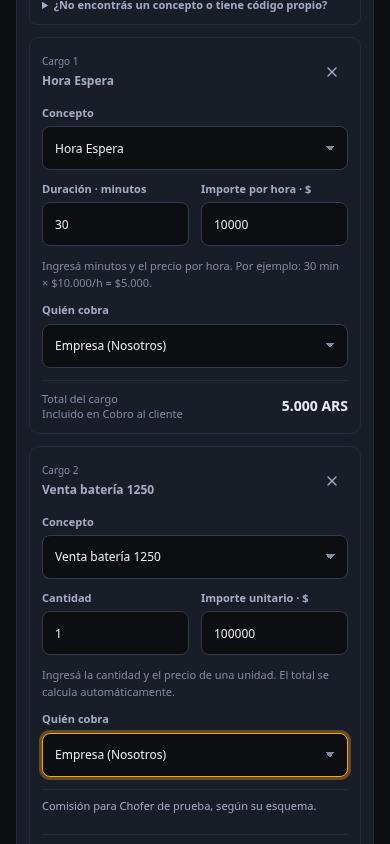
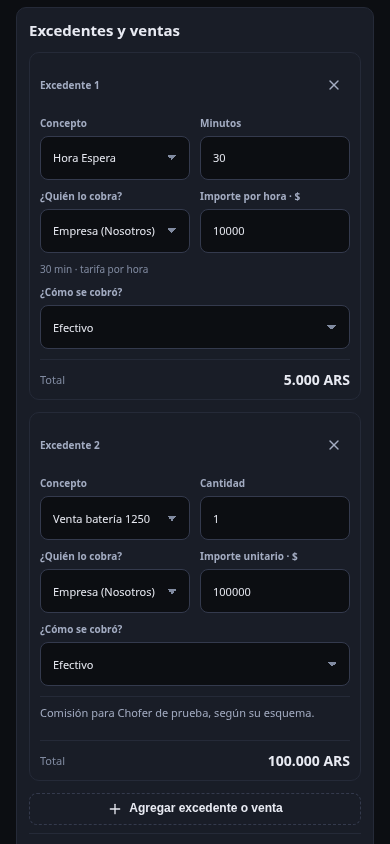
Compact excess form and expose customer payment method inline

diff --git a/operator-service-commercial-addons-v1.js b/operator-service-commercial-addons-v1.js
@@ -59,14 +59,18 @@ function renderTollRow(row,index,mode){const {rate}=rateFor(row.toll_id),qty=Mat
  ${disabled?'':`<button type="button" class="osca-remove" data-ca="remove-toll" data-index="${index}" aria-label="Quitar peaje">${ico('x')}</button>`}
  </div>`;}
 function commissionNote(conceptId){const w=W(),rules=(w?.context?.commission_assignments||[]).filter(x=>String(x.concept_id)===String(conceptId));if(!rules.length)return'';const driverId=w.data?.assigned_driver_id||w.serviceSnapshot?.responsible_driver_id||w.serviceSnapshot?.activation_driver_id||w.intakeContext?.service?.assigned_driver_id,driver=O()?.driver?.(driverId),name=driver?.full_name||w.serviceSnapshot?.driver_name||'Chofer del servicio';return `<small class="osca-commission-note">${!driverId?'Comisión: se atribuye al chofer responsable al finalizar.':rules.some(x=>String(x.driver_id)===String(driverId))?'Comisión para '+esc(name)+', según su esquema.':'El chofer responsable no tiene una comisión asignada para este concepto.'}</small>`;}
-function renderExcessRow(row,index){const meta=O()?.excessConcepts?.().find(x=>String(x.concept_id)===String(row.concept_id)),hourly=window.AuxiliosServiceImprovements?.isHourly({...meta,...row}),unit=meta?.pricing_unit||row.pricing_unit,disabled=readOnly(),errors=state.missing?O()?.excessRowErrors?.(row)||{}:{},field=(key,label,control)=>`<label class="osca-excess-field${errors[key]?' is-missing':''}"><span>${label}</span>${control}${errors[key]?`<small class="osca-field-error" role="alert">${esc(errors[key])}</small>`:''}</label>`,attrs=key=>`data-ca-excess-field="${key}" data-index="${index}" ${disabled?'disabled':''} ${errors[key]?'aria-invalid="true"':''}`,qtyLabel=hourly?'Duración · minutos':unit==='km'?'Kilómetros':unit==='day'?'Días':'Cantidad';
- return `<article class="osca-excess-card" data-excess-index="${index}"><header><div><small>Cargo ${index+1}</small><b>${esc(row.concept_name||meta?.name||'Nuevo excedente o venta')}</b></div>${disabled?'':`<button type="button" class="osca-remove" data-ca="remove-excess" data-index="${index}" aria-label="Quitar excedente ${index+1}">${ico('x')}</button>`}</header>
+function renderExcessRow(row,index){const meta=O()?.excessConcepts?.().find(x=>String(x.concept_id)===String(row.concept_id)),hourly=window.AuxiliosServiceImprovements?.isHourly({...meta,...row}),unit=meta?.pricing_unit||row.pricing_unit,disabled=readOnly(),errors=state.missing?O()?.excessRowErrors?.(row)||{}:{},field=(key,label,control)=>`<label class="osca-excess-field${errors[key]?' is-missing':''}"><span>${label}</span>${control}${errors[key]?`<small class="osca-field-error" role="alert">${esc(errors[key])}</small>`:''}</label>`,attrs=key=>`data-ca-excess-field="${key}" data-index="${index}" ${disabled?'disabled':''} ${errors[key]?'aria-invalid="true"':''}`,qtyLabel=hourly?'Minutos':unit==='km'?'Kilómetros':unit==='day'?'Días':'Cantidad',cp=commercial().customer_payment||{},methods=[...PAYMENTS,...(W()?.administrativeEdit?[['not_collected','No cobrado']]:[['to_define','A definir']])];
+ return `<article class="osca-excess-card" data-excess-index="${index}"><header><b>Excedente ${index+1}</b>${disabled?'':`<button type="button" class="osca-remove" data-ca="remove-excess" data-index="${index}" aria-label="Quitar excedente ${index+1}">${ico('x')}</button>`}</header>
+ <div class="osca-excess-grid">
  ${field('concept_id','Concepto',`<select ${attrs('concept_id')}>${conceptOptions(row.concept_id,row.concept_name)}</select>`)}
+ ${field('quantity',qtyLabel,`<input type="number" min="${hourly?.6:.01}" step="${hourly?.6:.01}" inputmode="decimal" value="${row.quantity===''?'':hourly?window.AuxiliosServiceImprovements.hoursToMinutes(row.quantity):esc(row.quantity)}" data-minutes="${!!hourly}" ${attrs('quantity')}>`)}
+ ${field('collector_agent','¿Quién lo cobra?',`<select ${attrs('collector_agent')}>${optionRows(COLLECTORS,row.collector_agent,'Seleccionar…')}</select>`)}
+ ${field('unit_amount',hourly?'Importe por hora · $':unit==='km'?'Importe por km · $':unit==='day'?'Importe por día · $':'Importe unitario · $',`<input type="number" min="0.01" step="0.01" inputmode="decimal" placeholder="0,00" value="${row.unit_amount===''?'':esc(row.unit_amount)}" ${attrs('unit_amount')}>`)}
+ </div>
  ${isExcessOther(row.concept_id)?field('concept_name','Descripción',`<input type="text" maxlength="80" placeholder="¿Qué se cobró?" value="${esc(row.concept_name||'')}" ${attrs('concept_name')}>`):''}
- <div class="osca-excess-numbers">${field('quantity',qtyLabel,`<input type="number" min="${hourly?.6:.01}" step="${hourly?.6:.01}" inputmode="decimal" value="${row.quantity===''?'':hourly?window.AuxiliosServiceImprovements.hoursToMinutes(row.quantity):esc(row.quantity)}" data-minutes="${!!hourly}" ${attrs('quantity')}>`)}${field('unit_amount',hourly?'Importe por hora · $':unit==='km'?'Importe por km · $':unit==='day'?'Importe por día · $':'Importe unitario · $',`<input type="number" min="0.01" step="0.01" inputmode="decimal" placeholder="0,00" value="${row.unit_amount===''?'':esc(row.unit_amount)}" ${attrs('unit_amount')}>`)}</div>
- <small class="osca-excess-help">${hourly?'Ingresá minutos y el precio por hora. Por ejemplo: 30 min × $10.000/h = $5.000.':unit==='km'?'Ingresá los kilómetros excedentes y el precio de cada kilómetro.':'Ingresá la cantidad y el precio de una unidad. El total se calcula automáticamente.'}</small>
- ${field('collector_agent','Quién cobra',`<select ${attrs('collector_agent')}>${optionRows(COLLECTORS,row.collector_agent,'Elegí quién cobra')}</select>`)}
- ${commissionNote(row.concept_id)}<footer><small>Total del cargo<br>${row.collector_agent==='company'?'Incluido en Cobro al cliente':row.collector_agent==='provider'?'Lo cobra la Prestadora':''}</small><b data-excess-total="${index}">${money(num(row.quantity)*num(row.unit_amount),row.currency)}</b></footer>
+ ${hourly?`<small class="osca-excess-help" data-excess-duration="${index}">${window.AuxiliosServiceImprovements.duration(row.quantity)} · tarifa por hora</small>`:''}
+ ${row.collector_agent==='company'?`<label class="osca-excess-field"><span>¿Cómo se cobró?</span><select data-ca-excess-payment="${index}" ${disabled?'disabled':''}>${optionRows(methods,cp.primary,'Seleccionar medio…')}</select>${cp.secondary?`<small class="osca-excess-help">${esc(paymentName(cp.primary))} + ${esc(paymentName(cp.secondary))}</small>`:''}</label>`:row.collector_agent==='provider'?'<small class="osca-excess-help">Cobro a cargo de la prestadora.</small>':''}
+ ${commissionNote(row.concept_id)}<footer><small>Total</small><b data-excess-total="${index}">${money(num(row.quantity)*num(row.unit_amount),row.currency)}</b></footer>
  </article>`;}
 function actualTolls(){const rows=W()?.data?.actual_tolls||[];if(!rows.length)return'';return`<div class="osca-actual"><b>Peajes reales informados</b>${rows.map(row=>`<span>${esc(row.toll_name||'Peaje')} · ${Math.max(1,num(row.quantity)||1)} × ${money(row.unit_amount,row.currency||'ARS')}</span>`).join('')}</div>`;}
 function coverageList(c,disabled){return`<div class="osca-format-list" role="radiogroup" aria-label="Formato de cobro">${COVERAGE.map(([value,label])=>`<button type="button" role="radio" aria-checked="${String(c.toll_coverage_mode)===value}" data-ca="coverage" data-value="${value}" class="${String(c.toll_coverage_mode)===value?'active':''}" ${disabled?'disabled':''}><span class="osca-radio"></span><b>${esc(label)}</b></button>`).join('')}</div>`;}
@@ -76,7 +80,8 @@ function tollMatrix(c){const mode=c.toll_coverage_mode,disabled=readOnly();if(!m
  <div class="osca-matrix-body">${c.tolls.length?c.tolls.map((row,index)=>renderTollRow(row,index,mode)).join(''):'<div class="osca-empty-row">Sin peajes cargados.</div>'}</div>
  ${disabled?'':`<div class="osca-add-actions"><button type="button" class="osca-add-row" data-ca="new-toll">${ico('plus')}Agregar peaje</button><button type="button" class="osca-add-row" data-ca="detect-tolls">${ico('route')}Detectar peajes del recorrido</button>${c.tolls.length?`<button type="button" class="osca-add-row" data-ca="duplicate-tolls">${ico('copy')}Duplicar para la vuelta</button>`:''}</div>${window.AuxiliosTollDetection?.panelHtml?.()||''}`}
  </div>`;}
-function excessMatrix(c){const disabled=readOnly();return`<div class="osca-excess-editor"><div class="osca-title"><b>Excedentes y ventas</b><small>Cargá un cobro manual: concepto, cantidad, precio y quién lo cobra.</small></div><div class="osca-excess-help"><details class="osca-catalog-help"><summary>¿No encontrás un concepto o tiene código propio?</summary><p>Las ventas se habilitan en Configuración → Prestadoras → Servicios habilitados. Si falta en el catálogo, crealo en Configuración → Tipos de servicio.</p><p>Una prestación con tarifa y código independiente se agrega en Prestaciones adicionales: allí se carga su número completo.</p></details></div><div class="osca-excess-list">${c.excess_charges.length?c.excess_charges.map(renderExcessRow).join(''):'<div class="osca-excess-empty"><b>Sin excedentes</b><span>Agregá los cargos o ventas que correspondan al servicio.</span></div>'}</div>${disabled?'':`<button type="button" class="osca-add-row" data-ca="new-excess">${ico('plus')}Agregar excedente o venta</button>`}</div>`;}
+function excessMatrix(c){const disabled=readOnly();return`<div class="osca-excess-editor"><div class="osca-title"><b>Excedentes y ventas</b></div><div class="osca-excess-list">${c.excess_charges.length?c.excess_charges.map(renderExcessRow).join(''):'<div class="osca-excess-empty"><b>Sin excedentes</b></div>'}</div>${disabled?'':`<button type="button" class="osca-add-row" data-ca="new-excess">${ico('plus')}Agregar excedente o venta</button>`}</div>`;}
+
 
 function activationCard(){
  const w=W(),s=w?.serviceSnapshot||{},active=!!(s.driver_activated||w?.intakeActivated);if(!active)return '';
@@ -98,7 +103,7 @@ function addDetectedTollsAdmin(items){const c=commercial(),payer=fixedPayer(c.to
 /* Los campos de las filas ya no llevan el rótulo a la vista (ahorra espacio): cada uno lo conserva para lectores de pantalla y al pasar el mouse. */
 function labelFields(){document.querySelectorAll('.osv4-reactive .osca-matrix-row > [data-label]').forEach(box=>{const name=box.dataset.label,control=box.querySelector('select,input');if(control&&!control.getAttribute('aria-label')){control.setAttribute('aria-label',name);if(!control.title)control.title=name;}});}
 function customerPaymentProps(){const o=O(),c=commercial(),tolls=o?.commercialCustomerTollTotal?.()||0,excess=o?.commercialCompanyExcessTotal?.()||0;return{total:o?.customerPaymentTotal?.()||0,breakdown:[{label:'Peajes del cliente',amount:tolls},{label:'Excedentes que cobra la Empresa',amount:excess}],value:c.customer_payment||{},allowToDefine:!W()?.administrativeEdit,allowNotCollected:!!W()?.administrativeEdit,disabled:readOnly(),showErrors:!!state.missing,hint:'Un solo cobro para todo lo que paga el cliente. Si pagó con dos medios, cargá cuánto fue con el segundo.',onChange:next=>{o?.setCustomerPayment?.(next);paintCustomerPayment();}};}
-function paintCustomerPayment(){const slot=document.getElementById('osca-customer-payment');if(slot&&window.AuxiliosCustomerPayment)window.AuxiliosCustomerPayment.render(slot,customerPaymentProps());}
+function paintCustomerPayment(){document.querySelectorAll('[data-ca-excess-payment]').forEach(select=>{select.value=commercial().customer_payment?.primary||'';select.dispatchEvent(new Event('change',{bubbles:false}));});const slot=document.getElementById('osca-customer-payment');if(slot&&window.AuxiliosCustomerPayment)window.AuxiliosCustomerPayment.render(slot,customerPaymentProps());}
 /* Corrección administrativa (remito firmado): misma pantalla que Nuevo servicio y, abajo, los cargos del remito para comparar. */
 function administrativeReport(){const w=W();if(!w?.administrativeEdit||w.intakeActivated)return'';return`<details class="osaa-original" ${(state.reportOpen??reportOpenByDefault(w))?'open':''}><summary>Cargos del remito firmado</summary>${(()=>{const review=window.AuxiliosRemitoReviewV2?.reviewReport?.();return review?review+reportedPayment(w.reportedAddons):reportedCharges(w.reportedAddons);})()}</details>`;}
 function render(){const w=W();if(w&&!state.autoOpened&&w.mode==='create'&&!w.administrativeEdit&&!(w.intakeId&&!w.intakeActivated)){state.autoOpened=true;if(state.open==null)state.open='tolls';}renderInner();labelFields();/* Listas con el aspecto del sistema (como el resto de los formularios). */document.querySelectorAll('.osv4-reactive .osca-panel select:not([data-ax-enhanced])').forEach(x=>window.AxUI?.select?.(x));}
@@ -106,8 +111,8 @@ function renderInner(){const w=W(),column=document.querySelector('.osv4-reactive
  ${state.open==='tolls'?`<section class="osca-panel tolls">${coverageControl(c,disabled)}${tollMatrix(c)}${actualTolls()}${c.tolls.length?`<div class="osca-summary"><span>A cargo de la Prestadora</span><b>${money(provider)}</b><span>A cargo del cliente</span><b>${money(customer)}</b></div>`:''}</section>`:''}
  ${state.open==='excess'?`<section class="osca-panel excess">${excessMatrix(c)}${c.excess_charges.length?`<div class="osca-summary single"><span>Total excedentes</span><b data-excess-summary>${money(excess)}</b></div>`:''}</section>`:''}<div id="osca-customer-payment-anchor"></div>${administrativeReport()}`;const anchor=column.querySelector('#osca-customer-payment-anchor'),slot=cpSlot||Object.assign(document.createElement('div'),{id:'osca-customer-payment',className:'osca-customer-payment'});const showCp=(O()?.customerPaymentTotal?.()||0)>0;slot.hidden=!showCp;anchor.replaceWith(slot);restoreReview();if(showCp)paintCustomerPayment();}
 function onClick(event){const button=event.target.closest?.('[data-ca]');if(!button)return;const action=button.dataset.ca;if(action==='finalize-activated')return window.OperatorServiceLifecycleV2?.openActivatedFinalize?.(W()?.serviceId);if(action==='open-remito')return window.abrirRemitoFirmadoOperador?.(W()?.serviceId);if(action==='toggle-tolls'){state.open=state.open==='tolls'?null:'tolls';state.coverageEditing=false;return render();}if(action==='toggle-history'){state.open=state.open==='history'?null:'history';return render();}if(action==='toggle-excess'){state.open=state.open==='excess'?null:'excess';return render();}if(action==='change-coverage'&&!readOnly()){state.coverageEditing=true;return render();}if(readOnly())return;if(action==='coverage'){state.coverageEditing=false;return O()?.setCommercialCoverage?.(button.dataset.value||'');}if(action==='new-toll')return O()?.addCommercialToll?.();if(action==='detect-tolls'){Promise.resolve(window.AuxiliosTollDetection?.detect?.()).finally(()=>render());return;}if(action==='new-excess'){const rows=commercial().excess_charges,empty=rows.findIndex(r=>!r.concept_id);if(empty<0)O()?.addCommercialExcess?.();const index=empty<0?commercial().excess_charges.length-1:empty;const input=document.querySelector(`[data-excess-index="${index}"] [data-ca-excess-field="concept_id"]`);(input?.nextElementSibling?.querySelector('.ax-select-btn')||input)?.focus();return;}if(action==='remove-toll')return O()?.removeCommercialToll?.(Number(button.dataset.index));if(action==='duplicate-tolls')return O()?.duplicateCommercialTolls?.();if(action==='remove-excess')return O()?.removeCommercialExcess?.(Number(button.dataset.index));if(action==='toll-payer')return O()?.updateCommercialToll?.(Number(button.dataset.index),'payer_agent',button.dataset.value,true);if(action==='toll-qty'){const i=Number(button.dataset.index),r=commercial().tolls[i];if(!r)return;return O()?.updateCommercialToll?.(i,'quantity',Math.max(1,Math.round(num(r.quantity)||1)+Number(button.dataset.delta||0)),true);}}
-function onInput(event){if(readOnly())return;const target=event.target;if(target.dataset.caField==='unit_amount')O()?.updateCommercialToll?.(Number(target.dataset.index),'unit_amount',target.value,false);if(target.dataset.caField==='quantity')O()?.updateCommercialToll?.(Number(target.dataset.index),target.dataset.caField,target.value,false);if(['quantity','unit_amount','concept_name'].includes(target.dataset.caExcessField))O()?.updateCommercialExcess?.(Number(target.dataset.index),target.dataset.caExcessField,target.value===''?'':target.dataset.minutes==='true'?window.AuxiliosServiceImprovements.minutesToHours(target.value):target.value,false);if(target.dataset.caExcessField){const key=target.dataset.caExcessField,field=target.closest('.osca-excess-field'),errors=O()?.excessRowErrors?.(commercial().excess_charges[Number(target.dataset.index)])||{};if(!errors[key]){target.removeAttribute('aria-invalid');field?.classList.remove('is-missing');field?.querySelector('.osca-field-error')?.remove();}const summary=document.querySelector('[data-excess-summary]');if(summary)summary.textContent=money(O()?.commercialCustomerExcessTotal?.()||0);const i=Number(target.dataset.index),row=commercial().excess_charges[i],total=document.querySelector(`[data-excess-total="${i}"]`);if(total&&row)total.textContent=money(num(row.quantity)*num(row.unit_amount),row.currency);paintCustomerPayment();}}
-function onChange(event){if(readOnly())return;const target=event.target;if(target.dataset.caField!==undefined)return O()?.updateCommercialToll?.(Number(target.dataset.index),target.dataset.caField,target.value,true);if(target.dataset.caExcessField!==undefined)return O()?.updateCommercialExcess?.(Number(target.dataset.index),target.dataset.caExcessField,target.value===''?'':target.dataset.minutes==='true'?window.AuxiliosServiceImprovements.minutesToHours(target.value):target.value,!['quantity','unit_amount','concept_name'].includes(target.dataset.caExcessField));}
+function onInput(event){if(readOnly())return;const target=event.target;if(target.dataset.caField==='unit_amount')O()?.updateCommercialToll?.(Number(target.dataset.index),'unit_amount',target.value,false);if(target.dataset.caField==='quantity')O()?.updateCommercialToll?.(Number(target.dataset.index),target.dataset.caField,target.value,false);if(['quantity','unit_amount','concept_name'].includes(target.dataset.caExcessField))O()?.updateCommercialExcess?.(Number(target.dataset.index),target.dataset.caExcessField,target.value===''?'':target.dataset.minutes==='true'?window.AuxiliosServiceImprovements.minutesToHours(target.value):target.value,false);if(target.dataset.caExcessField){const key=target.dataset.caExcessField,field=target.closest('.osca-excess-field'),errors=O()?.excessRowErrors?.(commercial().excess_charges[Number(target.dataset.index)])||{};if(!errors[key]){target.removeAttribute('aria-invalid');field?.classList.remove('is-missing');field?.querySelector('.osca-field-error')?.remove();}const summary=document.querySelector('[data-excess-summary]');if(summary)summary.textContent=money(O()?.commercialCustomerExcessTotal?.()||0);const i=Number(target.dataset.index),row=commercial().excess_charges[i],total=document.querySelector(`[data-excess-total="${i}"]`);if(total&&row)total.textContent=money(num(row.quantity)*num(row.unit_amount),row.currency);const duration=document.querySelector(`[data-excess-duration="${i}"]`);if(duration&&row)duration.textContent=window.AuxiliosServiceImprovements.duration(row.quantity)+' · tarifa por hora';paintCustomerPayment();}}
+function onChange(event){if(readOnly())return;const target=event.target;if(target.dataset.caExcessPayment!==undefined){const cp=commercial().customer_payment||{},primary=target.value,reset=primary===cp.secondary||['to_define','not_collected'].includes(primary);O()?.setCustomerPayment?.({primary,...(reset?{secondary:'',secondary_amount:''}:{})});render();return;}if(target.dataset.caField!==undefined)return O()?.updateCommercialToll?.(Number(target.dataset.index),target.dataset.caField,target.value,true);if(target.dataset.caExcessField!==undefined)return O()?.updateCommercialExcess?.(Number(target.dataset.index),target.dataset.caExcessField,target.value===''?'':target.dataset.minutes==='true'?window.AuxiliosServiceImprovements.minutesToHours(target.value):target.value,!['quantity','unit_amount','concept_name'].includes(target.dataset.caExcessField));}
 function bind(){if(state.bound)return;state.bound=true;document.addEventListener('click',onClick);document.addEventListener('input',onInput);document.addEventListener('change',onChange);}
 /* Abierto mientras se revisa; retraído cuando el servicio ya está cerrado o
    se abre solo para consultar. Si el usuario lo abre o cierra, se respeta. */

diff --git a/operator-service-commercial-addons-v1.css b/operator-service-commercial-addons-v1.css
@@ -203,6 +203,12 @@
 .osca-commission-note{display:block;font-size:11px!important;line-height:1.5;color:var(--ax-text-2,var(--osv2-muted2));padding:8px 0;border-top:1px solid var(--ax-border,var(--osv2-border))}
 .osca-excess-card>header>div{display:grid;gap:4px;min-width:0;overflow-wrap:anywhere}
 .osca-excess-card>header small{font-size:10px;color:var(--ax-text-3,var(--osv2-muted2))}
-.osca-catalog-help{padding:10px 12px;border:1px solid var(--ax-border,var(--osv2-border));border-radius:8px;font-size:11px;line-height:1.5;overflow-wrap:anywhere}
-.osca-catalog-help summary{cursor:pointer;font-weight:600;color:var(--ax-text-2,var(--osv2-text))}
-.osca-catalog-help p{margin:8px 0 0}
+
+
+.osca-excess-grid{display:grid;grid-template-columns:minmax(0,1fr) minmax(0,1fr);gap:10px}
+.osca-excess-card{gap:10px;padding:10px}
+.osca-excess-card .osca-excess-field>span,.osca-excess-card>header b{font-size:10px}
+.osca-excess-card :is(input,select){font-size:11px!important}
+.osca-excess-card .ax-select-box{min-width:0;width:100%}
+.osca-excess-card .ax-select-btn{font-size:11px!important;min-width:0;overflow:hidden}
+.osca-excess-card .osca-excess-help{font-size:10px;line-height:1.35}
